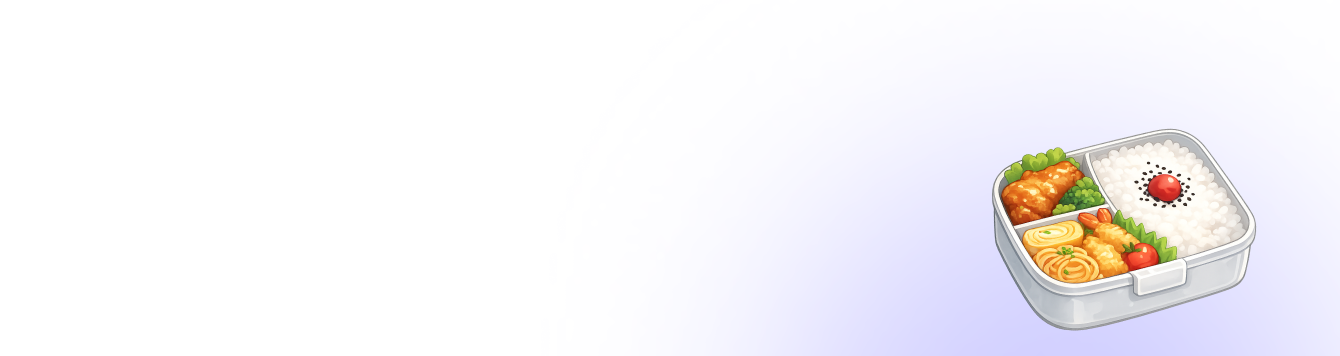
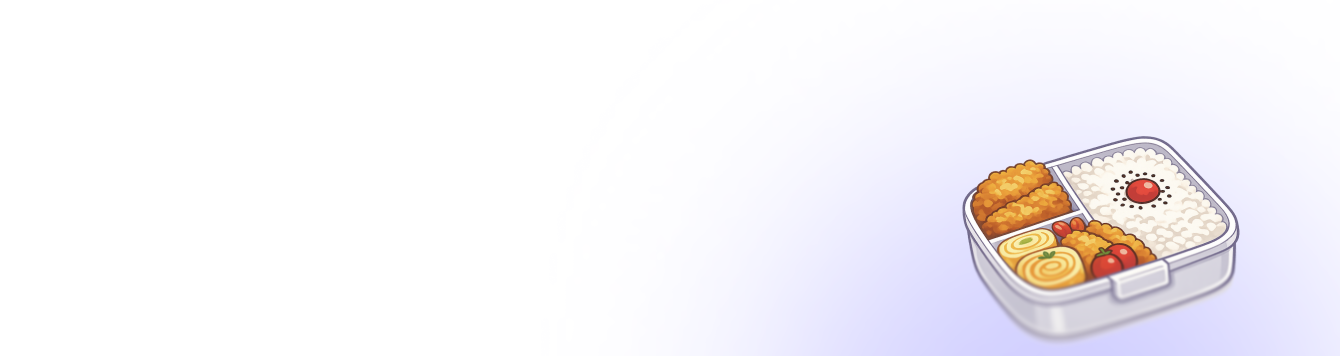
style: card-table 컴포넌트 배경색 및 radius 수정

Changed region(s): [[0.7037, 0.3399, 0.9485, 0.9579]]

diff --git a/src/pages/health-menu/ui/health-menu-detail.tsx b/src/pages/health-menu/ui/health-menu-detail.tsx
@@ -5,6 +5,10 @@ import { useDietDetail } from "../apis/queries/use-diet-detail";
 
 const SECTION_LAYOUT = "flex flex-col items-start";
 
+const Bullet = () => (
+	<span className="mt-[0.8rem] h-[0.25rem] w-[0.25rem] shrink-0 rounded-full bg-gray-900" />
+);
+
 export const MenuDetailPage = () => {
 	const { healthDietId } = useParams();
 	const { data, isPending } = useDietDetail(healthDietId ?? "");
@@ -12,22 +16,20 @@ export const MenuDetailPage = () => {
 	const recommendedRows = Object.entries(data?.recommends ?? {}).map(
 		([label, values], index) => ({
 			id: `row-${index}`,
-			label: label,
+			label,
 			value: values.join(", "),
 		}),
 	);
 
-	if (isPending) {
-		return null;
-	}
+	if (isPending) return null;
 
 	return (
 		<div className="flex h-dvh flex-col overflow-hidden bg-gray-50">
-			<main className="flex-1 space-y-[2rem] overflow-y-auto px-[2rem] pt-[2.4rem] pb-[2rem]">
+			<main className="flex-1 overflow-y-auto px-[2rem] pt-[2.8rem] pb-[2rem]">
 				{/* 메뉴 타이틀 및 설명 */}
 				<section
 					aria-labelledby="menu-detail-title"
-					className={`${SECTION_LAYOUT} gap-[2rem] py-[1.2rem]`}
+					className={`${SECTION_LAYOUT} gap-[2rem]`}
 				>
 					<h1 id="menu-detail-title" className="head01-b-18 text-gray-900">
 						{data?.title ?? "-"}
@@ -39,16 +41,9 @@ export const MenuDetailPage = () => {
 				{/* 권장식품과 요리 */}
 				<section
 					aria-labelledby="recommended-title"
-					className={`${SECTION_LAYOUT} gap-[1.2rem]`}
+					className={`${SECTION_LAYOUT} gap-[1.2rem] pt-[4rem]`}
 				>
-					<span
-						id="recommended-title"
-						className="head05-r-14 inline-block rounded-[4px] bg-primary-50 px-[0.8rem] py-[0.4rem] text-black"
-					>
-						권장식품과 요리
-					</span>
-
-					<div className="w-full rounded-[12px] border border-gray-300 px-[2rem] py-[2.4rem]">
+					<div className="w-full">
 						<CardTable
 							headerLeft="권장 식품"
 							headerRight="요리"
@@ -60,29 +55,27 @@ export const MenuDetailPage = () => {
 				{/* 주의 식품 */}
 				<section
 					aria-labelledby="caution-title"
-					className={`${SECTION_LAYOUT} gap-[1.2rem]`}
+					className={`${SECTION_LAYOUT} gap-[1.2rem] pt-[4rem]`}
 				>
-					<span
-						id="caution-title"
-						className="head05-r-14 inline-block rounded-[4px] bg-primary-50 px-[0.8rem] py-[0.4rem] text-black"
-					>
+					<p id="caution-title" className="head03-sb-16 text-gray-900">
 						주의 식품
-					</span>
+					</p>
 
 					<ContentCard variant="muted">
 						<ContentCard.Content>
-							<ul>
+							<ul className="flex flex-col gap-[0.4rem]">
 								{(data?.cautionary ?? []).map((food) => (
-									<li key={food} className="body04-r-14 text-gray-900">
-										{food}
+									<li key={food} className="flex items-start gap-[0.8rem]">
+										<Bullet />
+										<span className="body04-r-14 text-gray-900">{food}</span>
 									</li>
 								))}
 							</ul>
 						</ContentCard.Content>
 					</ContentCard>
 
-					<p className="body05-r-12 self-end text-gray-700">
-						출처: {data?.reference ?? "-"}
+					<p className="body06-r-10 h-[1.5rem] self-end text-gray-700">
+						출처: 국내 의료기관 영양지침
 					</p>
 				</section>
 			</main>

diff --git a/src/pages/health-menu/ui/health-menu.tsx b/src/pages/health-menu/ui/health-menu.tsx
@@ -49,6 +49,7 @@ const DietListContent = () => {
 	);
 };
 
+// 검진 결과 없음
 const EmptyRecommendation = () => {
 	return (
 		<div className="w-full">
@@ -66,6 +67,22 @@ const EmptyRecommendation = () => {
 	);
 };
 
+// AI 로딩 중
+const LoadingRecommendation = () => {
+	return (
+		<div className="w-full">
+			<p className="head03-sb-16 text-gray-900">
+				사용자님의 건강상태에 맞는 요리
+			</p>
+
+			<div className="mt-[1.6rem] mb-[2rem] flex items-start gap-[1.2rem]">
+				<Ai className="shrink-0" aria-hidden />
+				<p className="body04-r-14 text-gray-900">AI가 요리를 찾는 중이에요</p>
+			</div>
+		</div>
+	);
+};
+
 export const HealthMenuPage = () => {
 	// 사용자 score 확인
 	const { data: myInfo } = useMyInfo();
@@ -74,23 +91,30 @@ export const HealthMenuPage = () => {
 	const hasHealthReport = myInfo?.score != null && myInfo.score !== 0;
 
 	// 검진결과 있을 때만 추천식단 조회
-	const { data: mealData } = useRecommendedMeal({
+	const { data: mealData, isPending: isMealPending } = useRecommendedMeal({
 		enabled: hasHealthReport,
 	});
+
+	const userName = myInfo?.name ?? "";
 
 	return (
 		<main className="overflow-y-auto" aria-label="건강 식단 메뉴">
 			{/* 상단 영역 */}
 			<section
-				className="flex w-full justify-center bg-center bg-cover px-[2rem] pt-[2.4rem] pb-[2rem]"
+				className="flex w-full justify-center bg-center bg-cover px-[2rem] pt-[2.4rem] pb-[4rem]"
 				style={{ backgroundImage: `url(${MenuBg})` }}
 				aria-label="AI 추천 식단"
 			>
 				{hasHealthReport ? (
-					<CardAiDietRecommendation
-						dietName={mealData?.meal ?? "-"}
-						description={mealData?.description ?? "-"}
-					/>
+					isMealPending ? (
+						<LoadingRecommendation />
+					) : (
+						<CardAiDietRecommendation
+							dietName={mealData?.meal ?? "-"}
+							description={mealData?.description ?? "-"}
+							userName={userName}
+						/>
+					)
 				) : (
 					<EmptyRecommendation />
 				)}

diff --git a/src/shared/ui/cards/card-table.tsx b/src/shared/ui/cards/card-table.tsx
@@ -12,6 +12,9 @@ interface CardTableProps extends React.HTMLAttributes<HTMLDivElement> {
 	rows: readonly CardTableRow[];
 }
 
+const TABLE_COLS = "grid-cols-[14rem_minmax(0,1fr)]";
+const CELL_PADDING = "px-[1.2rem] py-[1.2rem]";
+
 export const CardTable = ({
 	className,
 	headerLeft,
@@ -24,24 +27,41 @@ export const CardTable = ({
 			className={cn("flex w-full flex-col gap-[0.4rem]", className)}
 			{...props}
 		>
+			{/* Header */}
 			<div
 				className={cn(
-					"grid grid-cols-[11rem_18.5rem] items-center rounded-[12px] bg-gray-200",
+					"grid w-full items-center rounded-[8px] bg-primary-50",
+					TABLE_COLS,
 					"body01-sb-12 text-gray-900",
 				)}
 			>
-				<div className="min-w-0 px-[2rem] py-[0.8rem]">{headerLeft}</div>
-				<div className="min-w-0 px-[2rem] py-[0.8rem]">{headerRight}</div>
+				<div className={cn("min-w-0", CELL_PADDING)}>{headerLeft}</div>
+				<div className={cn("min-w-0", CELL_PADDING)}>{headerRight}</div>
 			</div>
+
+			{/* Rows */}
 			{rows.map((row) => (
 				<div
 					key={row.id}
-					className="grid w-full grid-cols-[11rem_18.5rem] items-center rounded-[12px] bg-white"
+					className={cn(
+						"grid w-full items-center rounded-[8px] bg-white",
+						TABLE_COLS,
+					)}
 				>
-					<div className="body05-r-12 min-w-0 whitespace-pre-line break-words px-[2rem] py-[0.8rem] text-left text-gray-900">
+					<div
+						className={cn(
+							"body05-r-12 min-w-0 whitespace-pre-line break-words text-gray-900",
+							CELL_PADDING,
+						)}
+					>
 						{row.label}
 					</div>
-					<div className="body05-r-12 min-w-0 whitespace-pre-line break-words px-[2rem] py-[0.8rem] text-left text-gray-900">
+					<div
+						className={cn(
+							"body05-r-12 min-w-0 whitespace-pre-line break-words text-gray-900",
+							CELL_PADDING,
+						)}
+					>
 						{row.value}
 					</div>
 				</div>

diff --git a/src/pages/health-menu/ui/card-ai-diet-recommendation.tsx b/src/pages/health-menu/ui/card-ai-diet-recommendation.tsx
@@ -3,13 +3,16 @@ import { Ai } from "@shared/assets/svg";
 export interface CardAiDietRecommendationProps {
 	// AI 추천 요리명
 	dietName: string;
-	// AI 추천 설명 텍스트
+	// AI 추천 설명 텍스트(추천 이유 한 문장)
 	description: string;
+	// 사용자 이름
+	userName: string;
 }
 
 const CardAiDietRecommendation = ({
 	dietName,
 	description,
+	userName,
 }: CardAiDietRecommendationProps) => {
 	return (
 		<article className="w-full" aria-labelledby="diet-recommendation-title">
@@ -26,7 +29,7 @@ const CardAiDietRecommendation = ({
 			<div className="mt-[1.6rem] flex items-start gap-[1.2rem]">
 				<Ai className="shrink-0" aria-hidden />
 				<p className="body04-r-14 whitespace-pre-line text-gray-900">
-					{description}
+					{`${userName || "사용자"}님의 건강 정보를 참고해,\n${description}`}
 				</p>
 			</div>
 		</article>
